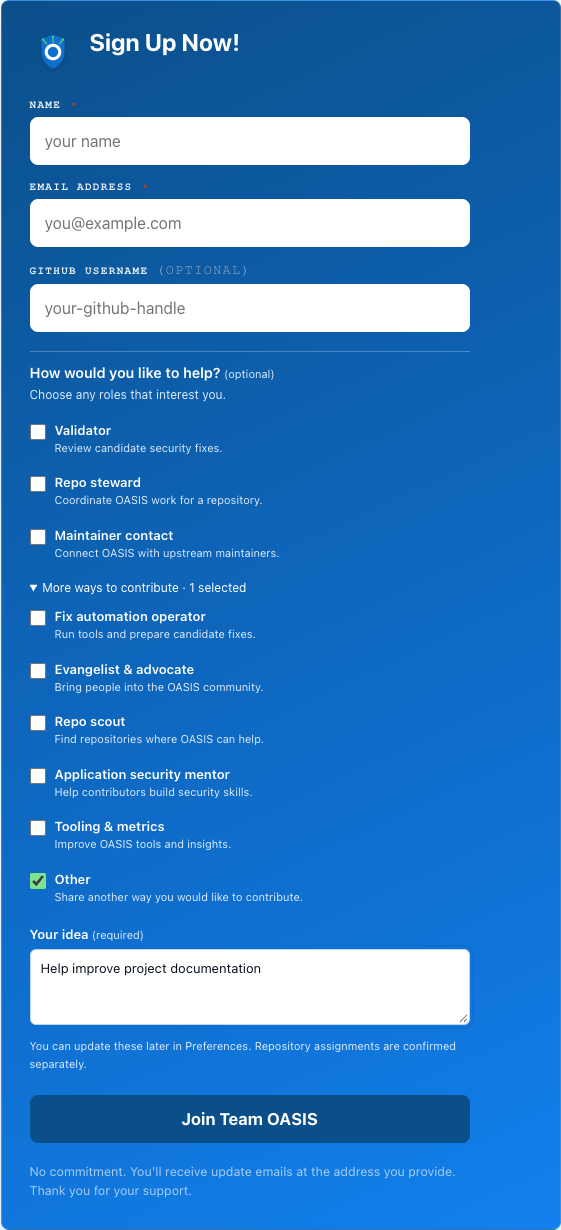
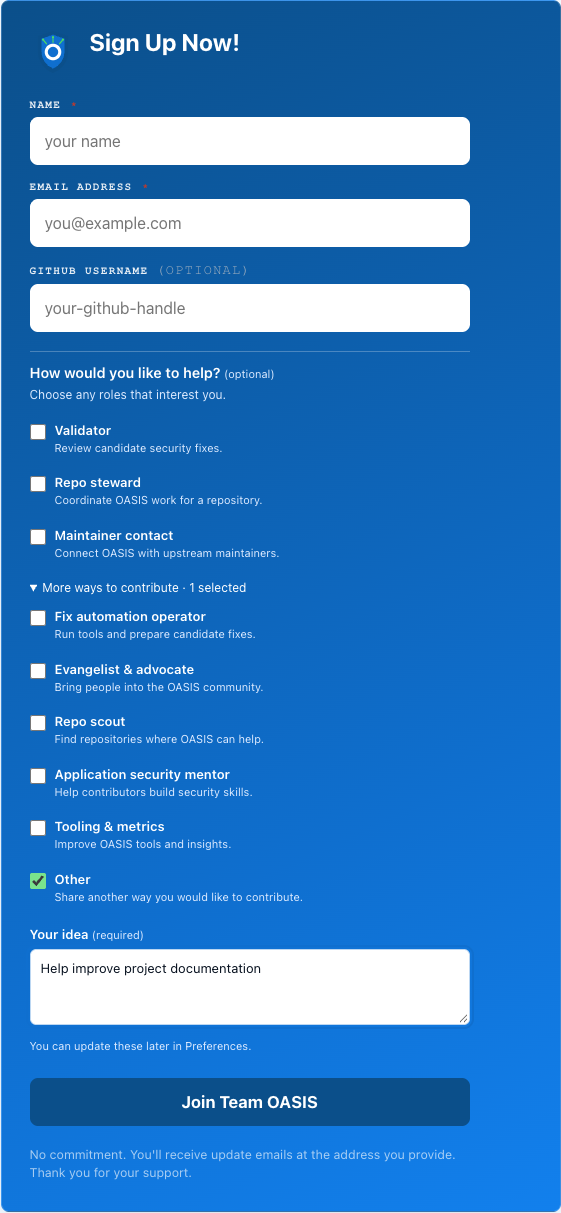
Keep contribution choices as user preferences
Members own the contribution preferences they choose at signup and in
the workspace. Repository assignment configuration is a separate concern.

Remove administrator assignment controls, APIs, storage, and related
copy from this feature while retaining self-service role interests.

Verified with npm run check, a local migration reapplication and schema
comparison, and a browser walkthrough. Reverting restores the assignment
workflow and its additive table to the proposed change.

diff --git a/tests/worker/integration/contributionRoles.test.ts b/tests/worker/integration/contributionRoles.test.ts
@@ -1,28 +1,26 @@
 import { env } from 'cloudflare:test'
 import { describe, beforeAll, afterEach, it, expect } from 'vitest'
 import { SELF } from './testWorker.js'
-import { applySchema, cleanDB, createTestSession, buildCookieHeader, makeCsrf, insertTestRepo } from './helpers.js'
+import { applySchema, cleanDB, createTestSession, buildCookieHeader, makeCsrf } from './helpers.js'
 import { linkContributionProfile } from '../../../worker/contributionIdentity.js'
 import { fetchMock } from './fetchMock.js'
 const mine = '/api/contribution-roles/mine'
-const admin = '/api/admin/contribution-roles'
 async function session(id = 501, login = 'member-one') { return createTestSession(env, { github_user_id: id, github_login: login }) }
 async function request(path: string, auth?: Awaited<ReturnType<typeof session>>, method = 'GET', body?: unknown, csrf = true) {
   const token = makeCsrf()
   return SELF.fetch(new Request('http://localhost' + path, { method, headers: { 'content-type': 'application/json', ...(auth ? {cookie: buildCookieHeader(auth.sessionCookie, `__csrf=${token}`)} : {cookie:`__csrf=${token}`}), ...(csrf ? {'x-csrf-token':token} : {}) }, body: body === undefined ? undefined : JSON.stringify(body) }))
 }
-describe('contribution interests and repository assignments', () => {
+describe('contribution interests', () => {
   beforeAll(() => applySchema(env))
   afterEach(async () => { fetchMock.deactivate(); await cleanDB(env) })
   it('requires session identity and rejects legacy sessions until sign-in', async () => {
     expect((await request(mine)).status).toBe(401)
-    expect((await request(admin)).status).toBe(401)
     const legacy = await createTestSession(env)
     expect((await request(mine, legacy)).status).toBe(409)
   })
   it('stores, reloads, deduplicates and clears interests without inferring an initial role', async () => {
     const auth = await session()
-    expect((await (await request(mine, auth)).json()).profile).toMatchObject({ interests: [], interests_updated_at: null, assignments: [] })
+    expect((await (await request(mine, auth)).json()).profile).toMatchObject({ interests: [], interests_updated_at: null })
     expect((await request(mine, auth, 'PUT', { interests:['steward','validator','steward'] })).status).toBe(200)
     expect((await (await request(mine, auth)).json()).profile.interests).toEqual(['validator','steward'])
     expect((await request(mine, auth, 'PUT', { interests:[] })).status).toBe(200)
@@ -43,7 +41,6 @@ describe('contribution interests and repository assignments', () => {
     const auth = await session()
     expect((await request(mine, auth, 'PUT', { interests:['validator'] }, false)).status).toBe(403)
     for (const body of [{interests:['admin']},{interests:'steward'},{interests:null},{interests:Array(10).fill('validator')},{interests:[],github_user_id:502},{interests:[],assignments:[]}]) expect((await request(mine, auth, 'PUT', body)).status).toBe(400)
-    expect((await request(admin,auth,'POST',{action:'assign',github_user_id:501,repo_id:1,role:'steward'})).status).toBe(403)
     expect((await (await request('/api/auth/me',auth)).json()).user.role).toBe('member')
   })
   it('keeps interests with immutable identity across username changes and private to their owner', async () => {
@@ -53,7 +50,6 @@ describe('contribution interests and repository assignments', () => {
     expect((await (await request(mine,renamed)).json()).profile).toMatchObject({github_login:'member-renamed',interests:['mentor']})
     const other = await session(502,'member-one')
     expect((await (await request(mine,other)).json()).profile.interests).toEqual([])
-    expect((await request(admin+'?member=501',other)).status).toBe(403)
   })
   it('stores signup interests atomically and duplicate public signup cannot overwrite them', async () => {
     const body={name:'Sample Member',email:'sample@oasis-demo.internal',interests:['contact','steward','other'],other_interest:'Documentation improvements'}
@@ -108,44 +104,5 @@ describe('contribution interests and repository assignments', () => {
     await env.DB.prepare("INSERT INTO registration_role_interests (registration_id,interests) SELECT id, '[\"steward\"]' FROM registrations").run()
     const auth=await session()
     expect((await (await request(mine,auth)).json()).profile.interests).toEqual([])
-  })
-  it('assigns, retries, ends and reassigns roles with atomic audit and no interest or privilege changes', async () => {
-    const auth=await session(), lead=await session(7505051,'humor4fun')
-    await request(mine,auth,'PUT',{interests:['validator']}); const repo=await insertTestRepo(env)
-    const body={github_user_id:501,repo_id:repo.id,role:'steward',action:'assign'}
-    expect((await request(admin,lead,'POST',body,false)).status).toBe(403)
-    expect((await request(admin,lead,'POST',body)).status).toBe(200)
-    const original=await env.DB.prepare('SELECT assigned_at FROM contribution_assignments').first()
-    await request(admin,lead,'POST',body)
-    expect(await env.DB.prepare('SELECT assigned_at FROM contribution_assignments').first()).toEqual(original)
-    let profile=(await (await request(mine,auth)).json()).profile
-    expect(profile.assignments).toHaveLength(1);expect(profile.interests).toEqual(['validator'])
-    await request(mine,auth,'PUT',{interests:[]})
-    expect((await (await request(mine,auth)).json()).profile.assignments[0].status).toBe('active')
-    expect((await request(admin,lead,'POST',{...body,action:'end'})).status).toBe(200)
-    profile=(await (await request(mine,auth)).json()).profile
-    expect(profile.assignments[0].status).toBe('ended');expect(profile.assignments[0].ended_at).not.toBeNull()
-    expect((await request(admin,lead,'POST',body)).status).toBe(200)
-    const assignments = (await (await request(mine,auth)).json()).profile.assignments
-    expect(assignments).toHaveLength(2)
-    expect(assignments[0]).toMatchObject({status:'active',ended_at:null})
-    expect(assignments[1]).toMatchObject({status:'ended'})
-    const audit=await env.DB.prepare("SELECT github_user_id,role,action,outcome,target_id FROM privileged_action_audit WHERE action='contribution_assignment.end'").first()
-    expect(audit).toMatchObject({github_user_id:7505051,role:'admin',outcome:'succeeded',target_id:`501:${repo.id}:steward`})
-    expect((await (await request('/api/auth/me',auth)).json()).user.role).toBe('member')
-  })
-  it('validates assignment targets, role types and admin-only reads', async () => {
-    const lead=await session(7505051,'humor4fun'), member=await session()
-    await request(mine,member); const repo=await insertTestRepo(env)
-    const body={github_user_id:501,repo_id:repo.id,role:'contact',action:'assign'}
-    expect((await request(admin,member)).status).toBe(403)
-    expect((await request(admin+'?member=501',lead)).headers.get('cache-control')).toBe('no-store')
-    for(const patch of [{role:'admin'},{role:['steward']},{action:'remove'},{github_user_id:'501'},{repo_id:-1},{assigned_by:42}]) expect((await request(admin,lead,'POST',{...body,...patch})).status).toBe(400)
-    expect((await request(admin,lead,'POST',{...body,github_user_id:999})).status).toBe(404)
-    expect((await request(admin,lead,'POST',{...body,repo_id:999})).status).toBe(404)
-    expect((await request(admin,lead,'POST',{...body,action:'end'})).status).toBe(404)
-    await env.DB.prepare('UPDATE repos SET active=0 WHERE id=?').bind(repo.id).run()
-    expect((await request(admin,lead,'POST',body)).status).toBe(400)
-    expect(await env.DB.prepare('SELECT 1 FROM privileged_action_audit').first()).toBeNull()
   })
 })

diff --git a/worker/handlers/contributionRoles.ts b/worker/handlers/contributionRoles.ts
@@ -1,5 +1,5 @@
 import type { Env } from '../types.js';
-import { getRequestPrincipal, roleAllows } from '../authorization.js';
+import { getRequestPrincipal } from '../authorization.js';
 import { jsonErr, jsonOk, validateCSRF } from '../security.js';
 import { parseBody } from '../validation.js';
 import { linkContributionProfile } from '../contributionIdentity.js';
@@ -9,10 +9,7 @@ export async function contributionProfile(db: D1Database, id: number) {
   const profile = await db.prepare('SELECT github_user_id, github_login, interests, other_interest, interests_updated_at FROM contribution_profiles WHERE github_user_id = ?')
     .bind(id).first<{ github_user_id: number; github_login: string; interests: string; other_interest: string; interests_updated_at: string | null }>();
   if (!profile) return null;
-  const assignments = await db.prepare(`SELECT a.id, a.repo_id, r.full_name AS repository, a.role, a.status, a.assigned_at, a.ended_at
-    FROM contribution_assignments a JOIN repos r ON r.id = a.repo_id WHERE a.github_user_id = ? ORDER BY a.status, a.assigned_at DESC, a.id DESC LIMIT 200`)
-    .bind(id).all();
-  return { ...profile, interests: JSON.parse(profile.interests), assignments: assignments.results };
+  return { ...profile, interests: JSON.parse(profile.interests) };
 }
 export async function handleMyContributionRoles(request: Request, env: Env): Promise<Response> {
   const principal = await getRequestPrincipal(request, env);
@@ -39,58 +36,5 @@ export async function handleMyContributionRoles(request: Request, env: Env): Pro
     // Session identity is trusted; a typed signup handle is never an ownership claim.
     await linkContributionProfile(env.DB, id, principal.session.github_login);
   }
-  return jsonOk({ profile: await contributionProfile(env.DB, id) }, request, { cache: 'no-store' });
-}
-
-export async function handleContributionAdmin(request: Request, env: Env): Promise<Response> {
-  const principal = await getRequestPrincipal(request, env);
-  if (!principal.session) return jsonErr('Authentication required', 401, request);
-  if (!roleAllows(principal.role, 'admin')) return jsonErr('Admin role required', 403, request);
-  const actorId = principal.session.github_user_id;
-  if (!actorId) return jsonErr('Please sign out and sign in again to verify your GitHub identity.', 409, request);
-  const url = new URL(request.url);
-  if (request.method === 'GET') {
-    if (url.searchParams.has('member')) {
-      const member = Number(url.searchParams.get('member'));
-      if (!Number.isSafeInteger(member) || member <= 0) return jsonErr('Invalid member', 400, request);
-      const profile = await contributionProfile(env.DB, member);
-      return profile ? jsonOk({ profile }, request, { cache: 'no-store' }) : jsonErr('Member not found', 404, request);
-    }
-    const q = (url.searchParams.get('q') ?? '').trim().slice(0, 100);
-    const members = await env.DB.prepare(`SELECT github_user_id, github_login FROM contribution_profiles
-      WHERE github_login LIKE ? ORDER BY github_login COLLATE NOCASE LIMIT 50`).bind('%' + q + '%').all();
-    const repoQuery = (url.searchParams.get('repo_q') ?? '').trim().slice(0, 100);
-    const repos = await env.DB.prepare('SELECT id, full_name FROM repos WHERE active = 1 AND full_name LIKE ? ORDER BY full_name LIMIT 100').bind('%' + repoQuery + '%').all();
-    return jsonOk({ members: members.results, repositories: repos.results }, request, { cache: 'no-store' });
-  }
-  if (!validateCSRF(request)) return jsonErr('Invalid security token', 403, request);
-  const parsed = await parseBody(request);
-  if (!parsed.ok) return jsonErr(parsed.error, 400, request);
-  const body = parsed.val;
-  const id = body.github_user_id;
-  const repo = body.repo_id;
-  const role = body.role;
-  const action = body.action;
-  if (Object.keys(body).some(key => !['github_user_id', 'repo_id', 'role', 'action'].includes(key))
-    || typeof id !== 'number' || !Number.isSafeInteger(id) || id <= 0
-    || typeof repo !== 'number' || !Number.isSafeInteger(repo) || repo <= 0
-    || typeof role !== 'string' || !['steward', 'contact'].includes(role) || typeof action !== 'string' || !['assign', 'end'].includes(action)) return jsonErr('Invalid assignment', 400, request);
-  const profile = await env.DB.prepare('SELECT 1 FROM contribution_profiles WHERE github_user_id = ?').bind(id).first();
-  const repository = await env.DB.prepare('SELECT active FROM repos WHERE id = ?').bind(repo).first<{ active: number }>();
-  if (!profile || !repository) return jsonErr('Member or repository not found', 404, request);
-  if (action === 'assign' && !repository.active) return jsonErr('This repository is no longer active.', 400, request);
-  if (action === 'end' && !await env.DB.prepare('SELECT 1 FROM contribution_assignments WHERE github_user_id = ? AND repo_id = ? AND role = ?').bind(id, repo, role).first()) return jsonErr('Assignment not found', 404, request);
-  const now = new Date().toISOString();
-  const mutation = action === 'assign'
-    ? env.DB.prepare(`INSERT INTO contribution_assignments (github_user_id, repo_id, role, assigned_by, assigned_at)
-        VALUES (?, ?, ?, ?, ?) ON CONFLICT(github_user_id, repo_id, role) WHERE status = 'active' DO NOTHING`).bind(id, repo, role, actorId, now)
-    : env.DB.prepare(`UPDATE contribution_assignments SET status = 'ended', ended_at = ?, ended_by = ?
-        WHERE github_user_id = ? AND repo_id = ? AND role = ? AND status = 'active'`).bind(now, actorId, id, repo, role);
-  // Atomic with the write: assignment changes cannot succeed without an audit record.
-  await env.DB.batch([mutation, env.DB.prepare(`INSERT INTO privileged_action_audit
-    (id, github_user_id, github_login, role, action, target_type, target_id, outcome, created_at)
-    VALUES (?, ?, ?, ?, ?, 'contribution_assignment', ?, 'succeeded', ?)`)
-    .bind(crypto.randomUUID(), actorId, principal.session.github_login, principal.role,
-      'contribution_assignment.' + action, `${id}:${repo}:${role}`, now)]);
   return jsonOk({ profile: await contributionProfile(env.DB, id) }, request, { cache: 'no-store' });
 }

diff --git a/src/components/ContributionRoles/ContributionRoles.css b/src/components/ContributionRoles/ContributionRoles.css
@@ -20,14 +20,6 @@
 .contribution-interest-footer{display:flex;flex-direction:column;gap:7px}
 .contribution-interest-footer p,.contribution-section p.contribution-help{font-size:12px;line-height:1.6}
 .contribution-interest-footer>span{font:11px var(--mono);color:var(--muted)}
-.contribution-assignments{display:grid}
-.contribution-assignments article{display:flex;align-items:flex-start;justify-content:space-between;gap:15px;padding:14px 0;border-bottom:1px solid var(--gray-200)}
-.contribution-assignments article:first-child{padding-top:0}
-.contribution-assignments article>div{display:flex;flex-direction:column;gap:7px}
-.contribution-assignments strong{font-size:14px}
-.contribution-repo{display:flex;align-items:center;gap:6px;color:var(--blue-dark);font:12px var(--mono)}
-.contribution-assignments small{font-size:11px;color:var(--muted)}
-.contribution-status{display:inline-flex;align-items:center;gap:5px;padding:4px 8px;border-radius:100px;background:var(--green-soft);color:var(--green-ink);font:10px var(--mono)}
 
 .contribution-sr{position:absolute;width:1px;height:1px;overflow:hidden;clip:rect(0,0,0,0)}
 .contribution-other-interest{display:grid;gap:7px;margin:12px 0;color:var(--ink-soft);font-size:13px;font-weight:600}
@@ -49,10 +41,6 @@
 .home-register-card .contribution-signup-roles :is(input,summary):focus-visible{outline-color:var(--white)}
 
 .contribution-save{display:flex;align-items:center;justify-content:space-between;gap:16px}.contribution-save>span{font-size:12px;color:var(--muted)}
-.contribution-assignment-actions{align-items:flex-end!important}.contribution-assignment-actions button{font-size:12px}
-.contribution-history{font-size:12px;color:var(--muted)}.contribution-history summary{cursor:pointer;padding:8px 0}.contribution-history p{margin:8px 0}
 .contribution-prompt{margin-bottom:18px}.contribution-prompt>a{justify-self:start}
-.contribution-admin{max-width:800px;display:grid;gap:20px}.contribution-admin label{font-size:13px;display:grid;gap:7px}.contribution-admin input,.contribution-admin select{min-height:42px;border:1px solid var(--line-strong);border-radius:6px;padding:8px 10px;background:var(--white);color:var(--ink);font:14px var(--sans);width:100%}.contribution-admin .contribution-form{display:grid;gap:16px}.contribution-admin fieldset{border:0;display:grid;gap:16px}.contribution-confirm{border:1px solid var(--line-strong);background:var(--blue-soft);padding:16px;border-radius:7px}.contribution-confirm>div{display:flex;gap:10px;margin-top:10px}.contribution-admin button:disabled{opacity:.6;cursor:default}
-.contribution-section{scroll-margin-top:190px}.contribution-section :is(input,button):focus-visible,.contribution-admin :is(input,select,button):focus-visible{outline:2px solid var(--blue);outline-offset:3px}
-@media(max-width:767px){.ws-preferences .contribution-choices{grid-template-columns:1fr}.contribution-save{flex-direction:column;align-items:stretch}.contribution-signup-choice{padding:12px 0}.contribution-signup-roles summary{min-height:44px;align-content:center}.contribution-assignments article{flex-wrap:wrap}}
-.contribution-admin label.contribution-agreement{display:flex;align-items:flex-start;gap:10px;line-height:1.6}.contribution-admin .contribution-agreement input{width:17px;min-height:17px;height:17px;flex:none;margin-top:3px;accent-color:var(--blue)}
+.contribution-section{scroll-margin-top:190px}.contribution-section :is(input,button):focus-visible{outline:2px solid var(--blue);outline-offset:3px}
+@media(max-width:767px){.ws-preferences .contribution-choices{grid-template-columns:1fr}.contribution-save{flex-direction:column;align-items:stretch}.contribution-signup-choice{padding:12px 0}.contribution-signup-roles summary{min-height:44px;align-content:center}}

diff --git a/src/components/ContributionRoles/MyRoles.tsx b/src/components/ContributionRoles/MyRoles.tsx
@@ -6,7 +6,6 @@ import { teamPut, errorMessage } from '../../pages/workspace/teamApi'
 import type { ContributionRole } from '../../../worker/contributionRoles'
 import type { ContributionProfile } from './api'
 import RoleChoices from './RoleChoices'
-import Assignments from './Assignments'
 
 export function RolePrompt() {
   const { user } = useAuth()
@@ -40,10 +39,9 @@ export default function MyRoles() {
     <section id="my-roles" className="ws-card ws-preference-card contribution-section">
       <header><div><h2>My role interests</h2><p>Choose how you’d like to contribute. You can select more than one role.</p></div><span className="contribution-count">{draft.length} selected</span></header>
       <RoleChoices selected={draft} change={next => { setDraft(next); if (!next.includes('other')) setOtherInterest(''); setNotice('') }} otherInterest={otherInterest} changeOtherInterest={value => { setOtherInterest(value); setNotice('') }} disabled={saving} />
-      <p className="contribution-help">These express your interest. Confirmed responsibilities appear below.</p>
+      <p className="contribution-help">These choices describe your interests and can be changed anytime.</p>
       {saveError && <p className="ws-error" role="alert">{saveError} Your choices are still here. Try saving again.</p>}
       <div className="contribution-save"><span role="status">{notice || (dirty ? 'You have unsaved role changes.' : 'Choose any roles, or save with none selected for now.')}</span><button className="ws-button ws-button--primary" disabled={saving || (!dirty && !!profile?.interests_updated_at)} onClick={() => void save()}>{saving ? 'Saving…' : 'Save role interests'}</button></div>
     </section>
-    <section className="ws-card ws-preference-card contribution-section"><header><div><h2>My assigned roles</h2><p>Confirmed responsibilities for specific repositories.</p></div></header><Assignments assignments={profile?.assignments ?? []} /><p className="contribution-help">Changing your interests doesn’t change an assignment. Contact your project lead to update a responsibility or arrange a handoff.</p></section>
   </>
 }

diff --git a/tests/worker/integration/helpers.ts b/tests/worker/integration/helpers.ts
@@ -22,7 +22,7 @@ import { encryptToken } from '../../../worker/security.js';
  */
 export async function applySchema(env: Env): Promise<void> {
   const schema = `
--- Additive and retry-safe. No inferred interests or assignments for existing users.
+-- Additive and retry-safe. No inferred interests for existing users.
 CREATE TABLE IF NOT EXISTS contribution_profiles (
   github_user_id INTEGER PRIMARY KEY,
   github_login TEXT NOT NULL,
@@ -38,19 +38,6 @@ CREATE TABLE IF NOT EXISTS registration_role_interests (
   other_interest TEXT NOT NULL DEFAULT '',
   claimed_by INTEGER REFERENCES contribution_profiles(github_user_id)
 );
-CREATE TABLE IF NOT EXISTS contribution_assignments (
-  id INTEGER PRIMARY KEY AUTOINCREMENT,
-  github_user_id INTEGER NOT NULL REFERENCES contribution_profiles(github_user_id),
-  repo_id INTEGER NOT NULL REFERENCES repos(id),
-  role TEXT NOT NULL CHECK(role IN ('steward', 'contact')),
-  status TEXT NOT NULL DEFAULT 'active' CHECK(status IN ('active', 'ended')),
-  assigned_by INTEGER NOT NULL,
-  assigned_at TEXT NOT NULL,
-  ended_at TEXT,
-  ended_by INTEGER
-);
-CREATE INDEX IF NOT EXISTS idx_contribution_assignments_member ON contribution_assignments(github_user_id, status);
-CREATE UNIQUE INDEX IF NOT EXISTS idx_contribution_active_assignment ON contribution_assignments(github_user_id, repo_id, role) WHERE status = 'active';
 
 CREATE TABLE IF NOT EXISTS workspace_preferences (github_login TEXT PRIMARY KEY, settings TEXT NOT NULL DEFAULT '{}' CHECK (json_valid(settings)), updated_at TEXT NOT NULL);
 -- Registrations and applications
@@ -561,7 +548,7 @@ CREATE TABLE IF NOT EXISTS analytics_event_receipts (
  */
 export async function cleanDB(env: Env): Promise<void> {
   const tables = [
-    'contribution_assignments', 'registration_role_interests', 'contribution_profiles',
+    'registration_role_interests', 'contribution_profiles',
     'team_badges',
     'team_badge_settings',
     'team_ownership_transfers',

diff --git a/src/components/Nav.tsx b/src/components/Nav.tsx
@@ -58,7 +58,7 @@ export default function Nav(_props: { onOpenOnboarding?: () => void }) {
           <div className="nav-account-header"><strong>@{user.login}</strong><span>{profile ? `Validator · Rank ${profile.rank ? '#' + profile.rank : '—'} · ${profile.reputation.toFixed(1)} rep` : 'Validator'}</span></div>
           <NavLink to="/workspace/preferences" role="menuitem" onClick={close}><Settings2 size={16} />Preferences</NavLink>
           <NavLink to="/workspace/sync" role="menuitem" onClick={close}><Activity size={16} />Sync status</NavLink>
-          {user.role === 'admin' && <><NavLink to="/admin" role="menuitem" onClick={close}><Shield size={16} />User access</NavLink><NavLink to="/admin/contribution-roles" role="menuitem" onClick={close}><Shield size={16} />Contribution roles</NavLink><NavLink to="/admin/analytics" role="menuitem" onClick={close}><ChartNoAxesCombined size={16} />Analytics</NavLink></>}
+          {user.role === 'admin' && <><NavLink to="/admin" role="menuitem" onClick={close}><Shield size={16} />User access</NavLink><NavLink to="/admin/analytics" role="menuitem" onClick={close}><ChartNoAxesCombined size={16} />Analytics</NavLink></>}
           <hr /><button role="menuitem" onClick={() => { void logout(); close() }}><LogOut size={16} />Sign out</button>
         </div>}
       </div> : <><a href="/api/auth/login" className="nav-signin">Sign in</a><a href="/#register-form" className="nav-cta">Join Team OASIS</a></>)}

diff --git a/worker/index.ts b/worker/index.ts
@@ -1,4 +1,4 @@
-import { handleMyContributionRoles, handleContributionAdmin } from './handlers/contributionRoles.js';
+import { handleMyContributionRoles } from './handlers/contributionRoles.js';
 import { handleWorkspacePreferences } from './handlers/workspacePreferences.js';
 /**
  * OWASP OASIS — Cloudflare Worker entry point.
@@ -155,7 +155,6 @@ export default {
        if (method === 'POST' && url.pathname === '/api/auth/logout')   return await handleLogout(request, env);
 
        if (['GET', 'PUT'].includes(method) && url.pathname === '/api/contribution-roles/mine') return await handleMyContributionRoles(request, env);
-       if (['GET', 'POST'].includes(method) && url.pathname === '/api/admin/contribution-roles') return await handleContributionAdmin(request, env);
 
        /* ── User Preferences ───────────────────────────────────────── */
        if ((method === 'GET' || method === 'PUT') && url.pathname === '/api/preferences/workspace') return await handleWorkspacePreferences(request, env);

diff --git a/src/components/ContributionRoles/RoleChoices.tsx b/src/components/ContributionRoles/RoleChoices.tsx
@@ -15,6 +15,6 @@ export default function RoleChoices({ selected, change, otherInterest = '', chan
     {choices(CONTRIBUTION_ROLES.slice(0, 3))}
     <details><summary>More ways to contribute{selected.filter(id => CONTRIBUTION_ROLES.slice(3).some(role => role.id === id)).length > 0 ? ' · ' + selected.filter(id => CONTRIBUTION_ROLES.slice(3).some(role => role.id === id)).length + ' selected' : ''}</summary>{choices(CONTRIBUTION_ROLES.slice(3))}</details>
     {otherField}
-    <p className="contribution-help">You can update these later in Preferences. Repository assignments are confirmed separately.</p>
+    <p className="contribution-help">You can update these later in Preferences.</p>
   </fieldset> : <fieldset disabled={disabled}><legend className="contribution-sr">My role interests</legend><div className="ws-choice-list contribution-choices">{choices(CONTRIBUTION_ROLES)}</div>{otherField}</fieldset>
 }

diff --git a/src/App.tsx b/src/App.tsx
@@ -1,4 +1,3 @@
-import ContributionAdmin from './pages/ContributionAdmin'
 import { BrowserRouter, Routes, Route, Navigate, useLocation } from 'react-router-dom'
 import { useState } from 'react'
 import { AuthProvider } from './context/AuthContext'
@@ -73,7 +72,6 @@ function AppShell() {
           <Route path="/workspace/status/runs/:runId" element={<LegacySyncRunLink />} />
           <Route path="/workspace/sync/runs/:runId" element={<WorkspaceLayout title="Sync run"><SyncRunDetail /></WorkspaceLayout>} />
           {/* Listed only for authenticated administrators in the account menu. */}
-          <Route path="/admin/contribution-roles" element={<ContributionAdmin />} />
           <Route path="/admin" element={<Admin />} />
           <Route path="/admin/analytics" element={<AdminAnalytics />} />
           <Route path="/support" element={<Support />} />

diff --git a/src/components/ContributionRoles/api.ts b/src/components/ContributionRoles/api.ts
@@ -1,10 +1,5 @@
 import type { ContributionRole } from '../../../worker/contributionRoles'
-export interface Assignment {
-  id: number; repo_id: number; repository: string; role: 'steward' | 'contact';
-  status: 'active' | 'ended'; assigned_at: string; ended_at: string | null
-}
 export interface ContributionProfile {
   github_user_id: number; github_login: string; interests: ContributionRole[];
-  other_interest: string; interests_updated_at: string | null; assignments: Assignment[]
+  other_interest: string; interests_updated_at: string | null
 }
-export function roleName(role: Assignment['role']) { return role === 'steward' ? 'Repo steward' : 'Maintainer contact' }

diff --git a/DEPLOY.md b/DEPLOY.md
@@ -283,7 +283,6 @@ node export-db.js
 | `registrations` | Email sign-ups from the registration form |
 | `registration_role_interests` | Signup interests awaiting a matching verified GitHub email |
 | `contribution_profiles` | Role interests keyed by immutable GitHub user ID |
-| `contribution_assignments` | Repository-scoped steward/contact designations, end state, and assigning admin |
 | `applications` | Extended sign-up form data (org, why, role) |
 | `hubspot_sync_queue` | Durable registration/application contact outbox with retry state |
 | `repos` | GitHub repos in the `owasp-oasis` org, synced by cron |
@@ -339,9 +338,8 @@ Migration `0017_contribution_roles.sql` stores optional role interests separatel
 from application permissions. Signup selections transfer only when OAuth returns
 a verified email matching the registration; a typed GitHub name never claims a
 registration. Existing accounts start with no interests and can choose them in
-Workspace → Preferences. Repo steward and maintainer contact assignments are tied
-to a repository and GitHub ID, changed by admins with CSRF checks, and recorded
-in `privileged_action_audit`. Ending an assignment preserves its history.
+Workspace → Preferences. These choices are user preferences and do not grant
+permissions or configure repository assignments.
 
 Preview and production share D1, so applying migration 0017 for preview also
 changes the production database. Review and explicitly authorize that migration
@@ -352,9 +350,9 @@ drop the tables or restore D1 without a separately reviewed data recovery plan.
 
 For an isolated local walkthrough, run `npm run preview:roles`. It binds to
 127.0.0.1:5193, stores its demo D1 data under `.wrangler/role-walkthrough`, and
-simulates three GitHub identities. The walkthrough blocks outbound network
-requests and persists only fictional signup, preference, session, repository, and
-assignment data. Use its **Reset local data** button to clear the local D1 tables
+simulates GitHub identities. The walkthrough blocks outbound network
+requests and persists only fictional signup, preference, session, and repository
+data. Use its **Reset local data** button to clear the local D1 tables
 and rate-limit keys, then reseed the sample members and repositories.
 
 ## Observability

diff --git a/CONTRIBUTING.md b/CONTRIBUTING.md
@@ -123,14 +123,12 @@ parallel implementations.
 - Outside a user's own profile or contributor panel, analytics and engagement
   reporting must not identify individual users.
 
-### Contribution role interests and assignments
+### Contribution role interests
 
 Signup and Workspace Preferences let members select multiple optional role
-interests. They are signals of intent, independent of application access. Repo
-steward and maintainer contact responsibilities are assigned separately to an
-immutable GitHub user ID and repository, require administrator authorization
-and CSRF validation, and retain ended assignment history. Signup interests link
-to an account only through its verified OAuth email. Existing users start with
+interests. They are user preferences, independent of application access or
+repository assignments. Signup interests link to an account only through its
+verified OAuth email. Existing users start with
 no inferred interests. See [AUTHORIZATION.md](AUTHORIZATION.md) for access
 roles and [DEPLOY.md](DEPLOY.md#contribution-roles) for the isolated walkthrough.
 
